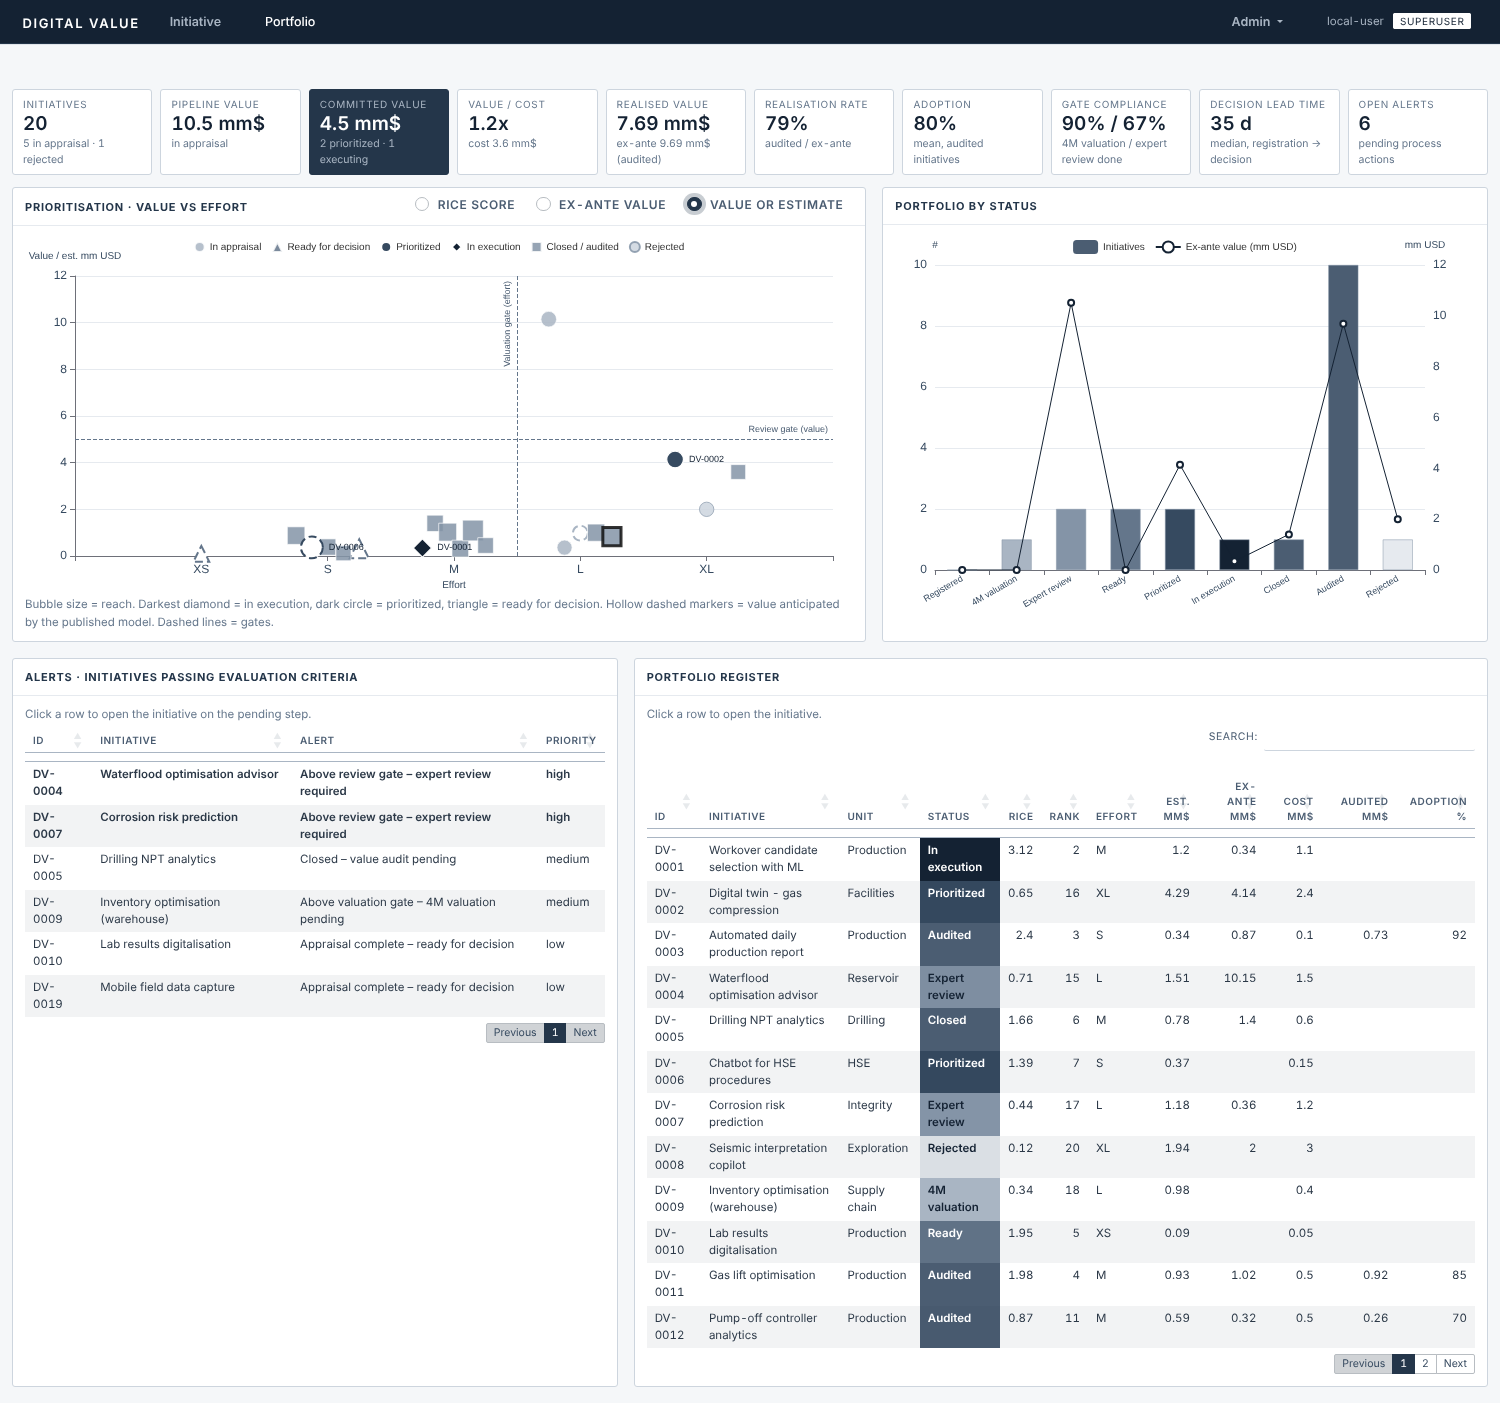
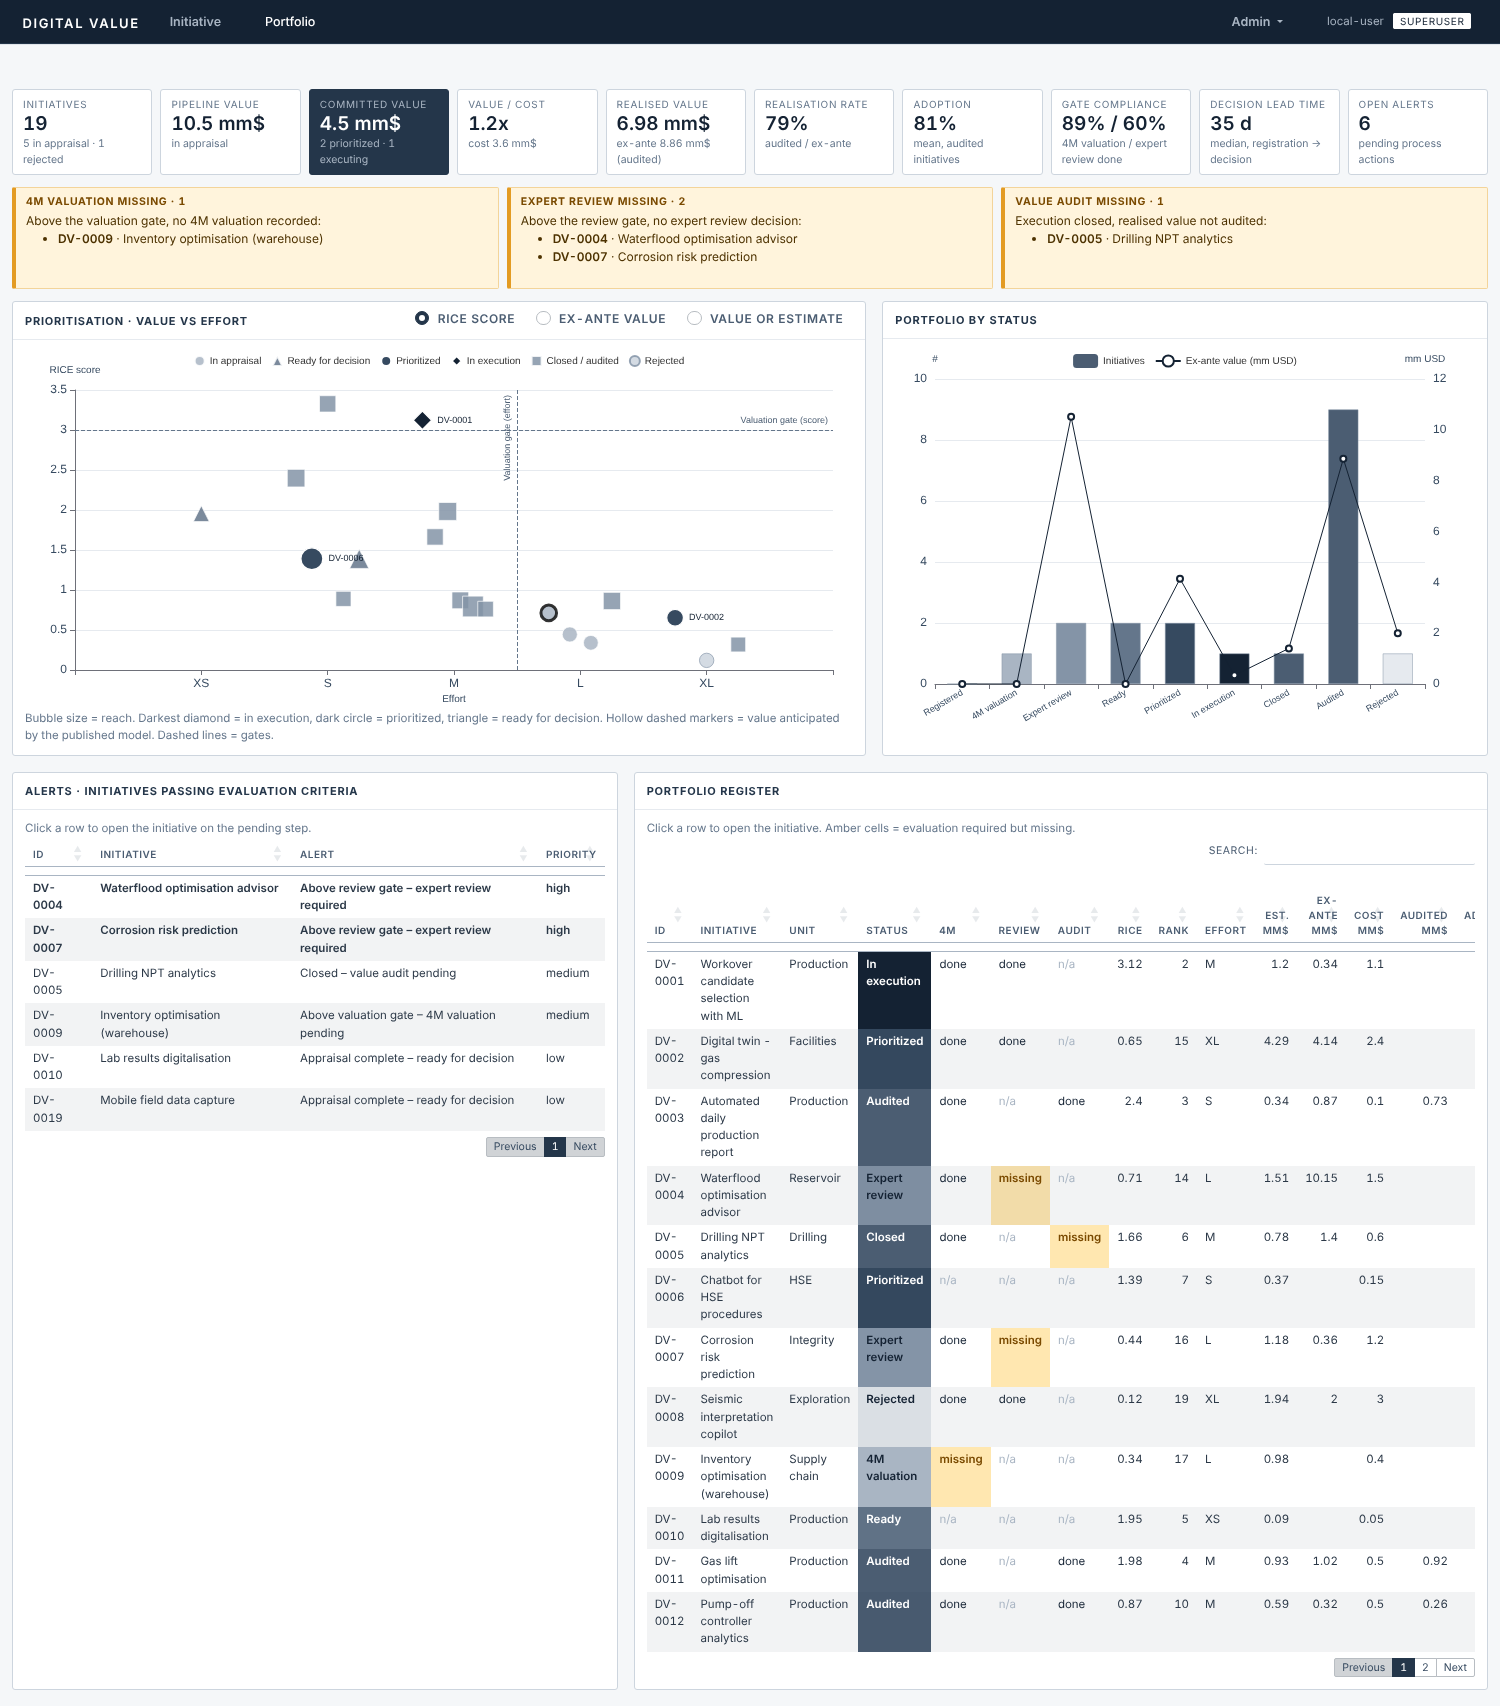
Highlight required next stages and missing evaluations in amber
- Initiative: next-stage callouts (4M valuation, expert review) in amber;
  the expert-review requirement now sits in the 4M valuation card.
- Portfolio: callouts per missing evaluation type and amber 'missing'
  cells for 4M / Review / Audit in the register (evaluation_gaps()).

Claude-Session: https://claude.ai/code/session_01N1EZf5BA3aM5WkjAKRAdJP

diff --git a/inst/app/www/styles.css b/inst/app/www/styles.css
@@ -120,3 +120,13 @@ table.dataTable tbody tr.selected > * { box-shadow: inset 0 0 0 9999px var(--c70
 .dataTables_wrapper .dataTables_filter label { font-size: 10.5px; }
 .dataTables_wrapper .dataTables_filter input { font-size: 11px; padding: 1px 4px; }
 .dv-score { font-size: 20px; font-weight: 600; color: var(--c900); line-height: 1.2; }
+
+/* The only accent colour: pending evaluations / next stage required (amber) */
+:root { --gate-bg: #FFF4DC; --gate-line: #E39B23; --gate-ink: #7A4A00; --gate-cell: #FFE7B0; }
+.dv-callout-gate { background: var(--gate-bg); border-color: #F3D49A; border-left: 4px solid var(--gate-line); }
+.dv-callout-gate .dv-callout-title { color: var(--gate-ink); }
+.dv-callout-gate .dv-callout-body { color: #4D3200; }
+.dv-gaps { display: grid; grid-template-columns: repeat(auto-fit, minmax(260px, 1fr)); gap: 8px; margin-bottom: 4px; }
+.dv-gaps .dv-callout { margin-bottom: 8px; }
+.dv-gap-id { font-weight: 600; }
+.dv-tag-gate { background: var(--gate-bg); border-color: var(--gate-line); color: var(--gate-ink); }

diff --git a/README.md b/README.md
@@ -85,6 +85,9 @@ Two log-linear regressions chain the lifecycle (`R/fct_value_model.R`):
 
 ### Alerts and KPIs
 
+* **Missing evaluations** are the only thing shown in colour (amber):
+  * **Initiative tab:** the "next stage required" callouts. Registration & RICE shows whether a 4M valuation is needed; the 4M valuation card shows whether an expert review is needed. Pending required steps are tagged in amber.
+  * **Portfolio tab:** one callout per missing evaluation type (4M valuation, expert review, value audit), listing the initiatives concerned, plus amber "missing" cells in the register's 4M / Review / Audit columns.
 * **Alerts** list initiatives above a gate with a pending step, closed initiatives without an audit, and initiatives ready for a decision. Clicking an alert opens the initiative on the right view.
 * **Portfolio KPIs**: pipeline, committed and realised value; value/cost; realisation rate (audited ÷ ex-ante); mean adoption; gate compliance (share of required 4M valuations and reviews actually done); decision lead time; open alerts.
 * **Prioritisation chart** (value vs effort, bubble size = reach): single-hue palette, with prioritized initiatives as dark circles and initiatives in execution as the darkest diamonds.
